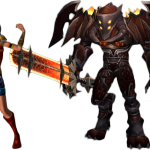
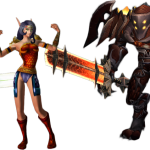
display transmo on home shop

diff --git a/wp-content/themes/legion/style.css b/wp-content/themes/legion/style.css
@@ -8,6 +8,10 @@
     src: url('/wp-content/themes/legion/fonts/quickstyle-Regular.ttf'); /*URL to font*/
 }
 
+.Quickstyle {
+    font-family: Quickstyle;
+}
+
 body {
     overflow-x: hidden;
     background-color: black;
@@ -591,14 +595,13 @@ section.shop a.pinterest:hover div.display_item, a.pinterest:hover div.shopLink 
     bottom: 5px;
 }
 
-div.shopLink p.message {
+p.message {
     text-align: center;
     position: absolute;
     margin-left: auto;
     margin-right: auto;
     left: 0;
     right: 0;
-    top: 40%;
     /*text-shadow: #000000 1px 1px, #000000 -1px 1px, #000000 -1px -1px, #000000 1px -1px;*/
     /* Safari */
     -webkit-transform: rotate(-10deg);
@@ -613,14 +616,30 @@ div.shopLink p.message {
     display: inline-table;
     background-size: 100% 100%;
     padding: 50px 0px 50px 0px;
+}
+
+p.message span {
+    display: block;
+    margin: auto;
+    position: relative;
+}
+
+div.shopLink p.message {
+    top: 40%;
     width: 100%;
 }
 
 div.shopLink p.message span {
     max-width: 200px;
-    display: block;
-    margin: auto;
-    position: relative;
+    top: 10px;
+}
+
+div.display_item p.message {
+    top: 40%;
+}
+
+div.display_item p.message span {
+    max-width: 200px;
     top: 10px;
 }
 

diff --git a/wp-content/themes/legion/class/item_home_transmo.php b/wp-content/themes/legion/class/item_home_transmo.php
@@ -12,6 +12,18 @@ class item_home_transmo extends item_home
 {
     function displayHome()
     {
-        return "home transmo";
+        $return = "";
+        $return .= '
+        <a class="pinterest" onclick="showMoreTransmo()">
+            <li class="list-group-item col-sm-9 col-xs-12">
+        <div class="display_item">
+        ';
+        $return .= wp_get_attachment_image($this->image, 'large', false, array("class" => "img-responsive center-block", "style" => "z-index:-1;"));
+        $return .= '<p class="message hidden-xs" style="width: 50%;background-image: url(\'' . wp_get_attachment_image_src(132,"full")[0] . '\') ">
+                    <span>' . $this->name . '</span>
+                    </p>
+                    <p class="hidden-sm hidden-md hidden-lg Quickstyle text-center">' . $this->name . '</p>';
+        $return .= '</div></li></a>';
+        return $return;
     }
 }

diff --git a/wp-content/themes/legion/class/item_home.php b/wp-content/themes/legion/class/item_home.php
@@ -20,10 +20,18 @@ class item_home extends parent_item
 
     public function display()
     {
-        $item_home_level = new item_home_level();
-        $item_home_trasmo = new item_home_transmo();
         $return = "";
-        $return .= $item_home_level->displayHome() . $item_home_trasmo->displayHome();
+        $req = $GLOBALS["dbh"]->query('SELECT * FROM `item_home` ');
+        $allItems = array();
+        while ($data = $req->fetch(PDO::FETCH_ASSOC)) {
+            $class = $data["phpclasse"];
+            $object = new $class();
+            $object->hydrateBDD($data);
+            array_push($allItems, $object);
+        }
+        foreach ($allItems as $itemHome) {
+            $return .= $itemHome->displayHome();
+        }
         echo $return;
     }
 }

diff --git a/wp-content/themes/legion/shopadmin.php b/wp-content/themes/legion/shopadmin.php
@@ -89,7 +89,6 @@
                         <div class="form-group">
                             <input placeholder="Item php classe without .php" type="text" class="form-control"
                                    name="item_phpClasse">
-                            https://stackoverflow.com/questions/4578335/creating-php-class-instance-with-a-string/4578343
                         </div>
                         <div class="form-group">
                             <label for="sel1">Can buy with vote point</label>

diff --git a/wp-content/themes/legion/shop.php b/wp-content/themes/legion/shop.php
@@ -223,7 +223,7 @@
     }
 
     function hideCategoryIfOnPhone() {
-        if ($(window).width() <= 768) {
+        if ($(window).width() <= 768 && $("#accordion").hasClass("hidden-xs") === false) {
             $("#hideShowCategoryShop").click();
         }
     }
@@ -276,6 +276,10 @@
                 sameHeight();
             }, 500);
         }
+    }
+
+    function showMoreTransmo() {
+        console.log(1);
     }
 
     $("a.subItemClasse").click(function (e) {
